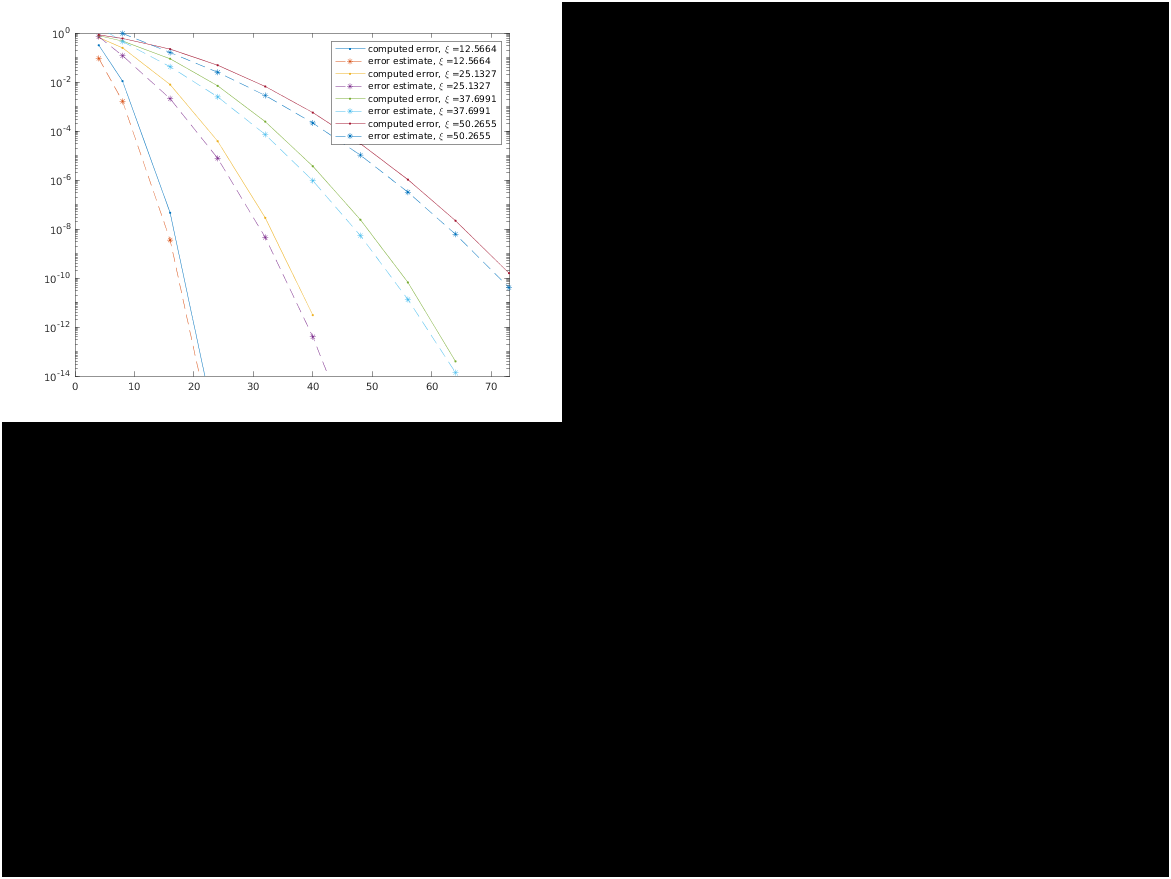
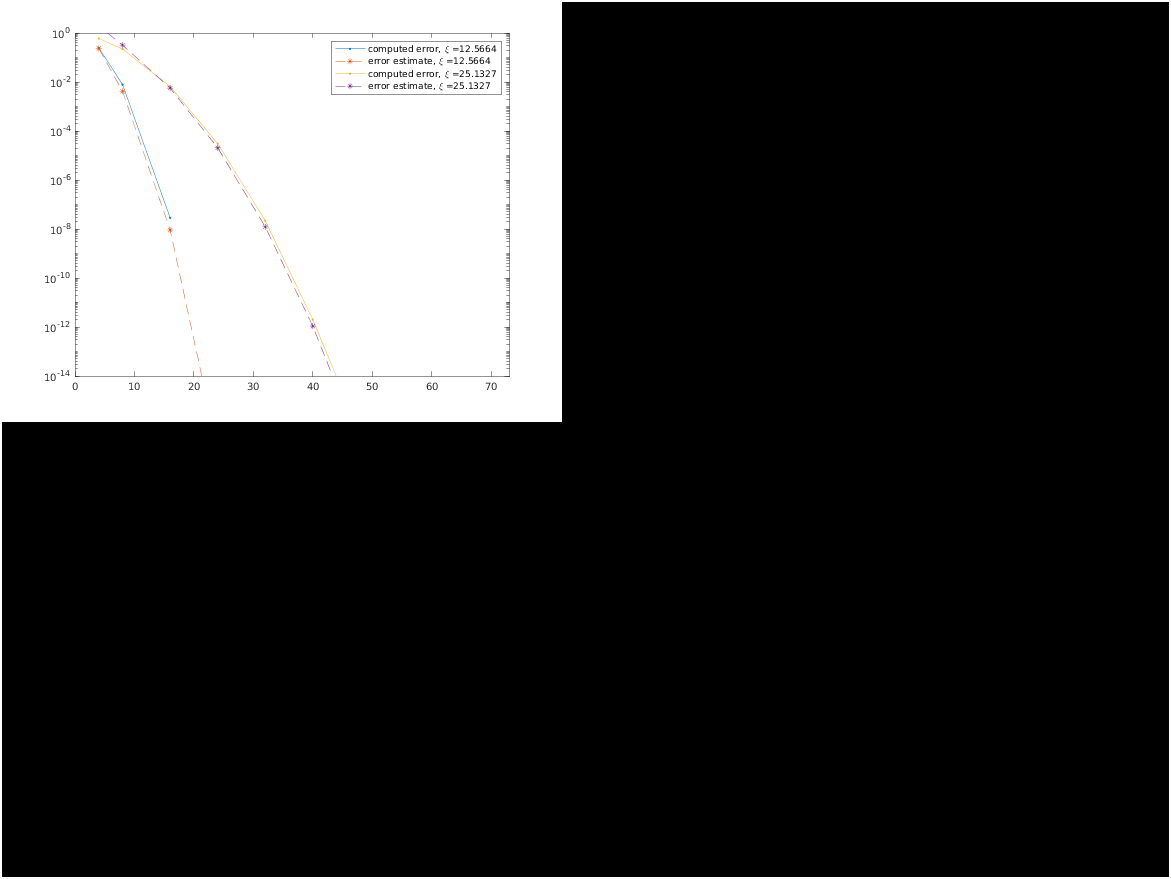
img

diff --git a/SE_Stokes_run/SE3P_Stokes/param_select.m b/SE_Stokes_run/SE3P_Stokes/param_select.m
@@ -8,14 +8,14 @@ N = 10; % number of source particles
 
 
 %% Parameter selection
-L = 1; % box side length
+L = 2; % box side length
 box = [L L L]; % periodic box
 opt.box = box;
 
 %Ewald params
 
 
-M0=192; % Set M0=M/L, the restu * 1+ is automatic
+M0=144; % Set M0=M/L, the restu * 1+ is automatic
 opt.M = M0*opt.box;
 opt.P = M0;
 opt.betaP = 2.5;
@@ -28,7 +28,7 @@ ED_opt.layers = (opt.M(1)-1)/2;
 ED_opt.box = box;
 refv = [];
 rms_ev = [];
-xx = (4:4:16)*pi;
+xx = (4:4:8)*pi;
 
     %% Direct solution
 if(exist('refval.mat'))
